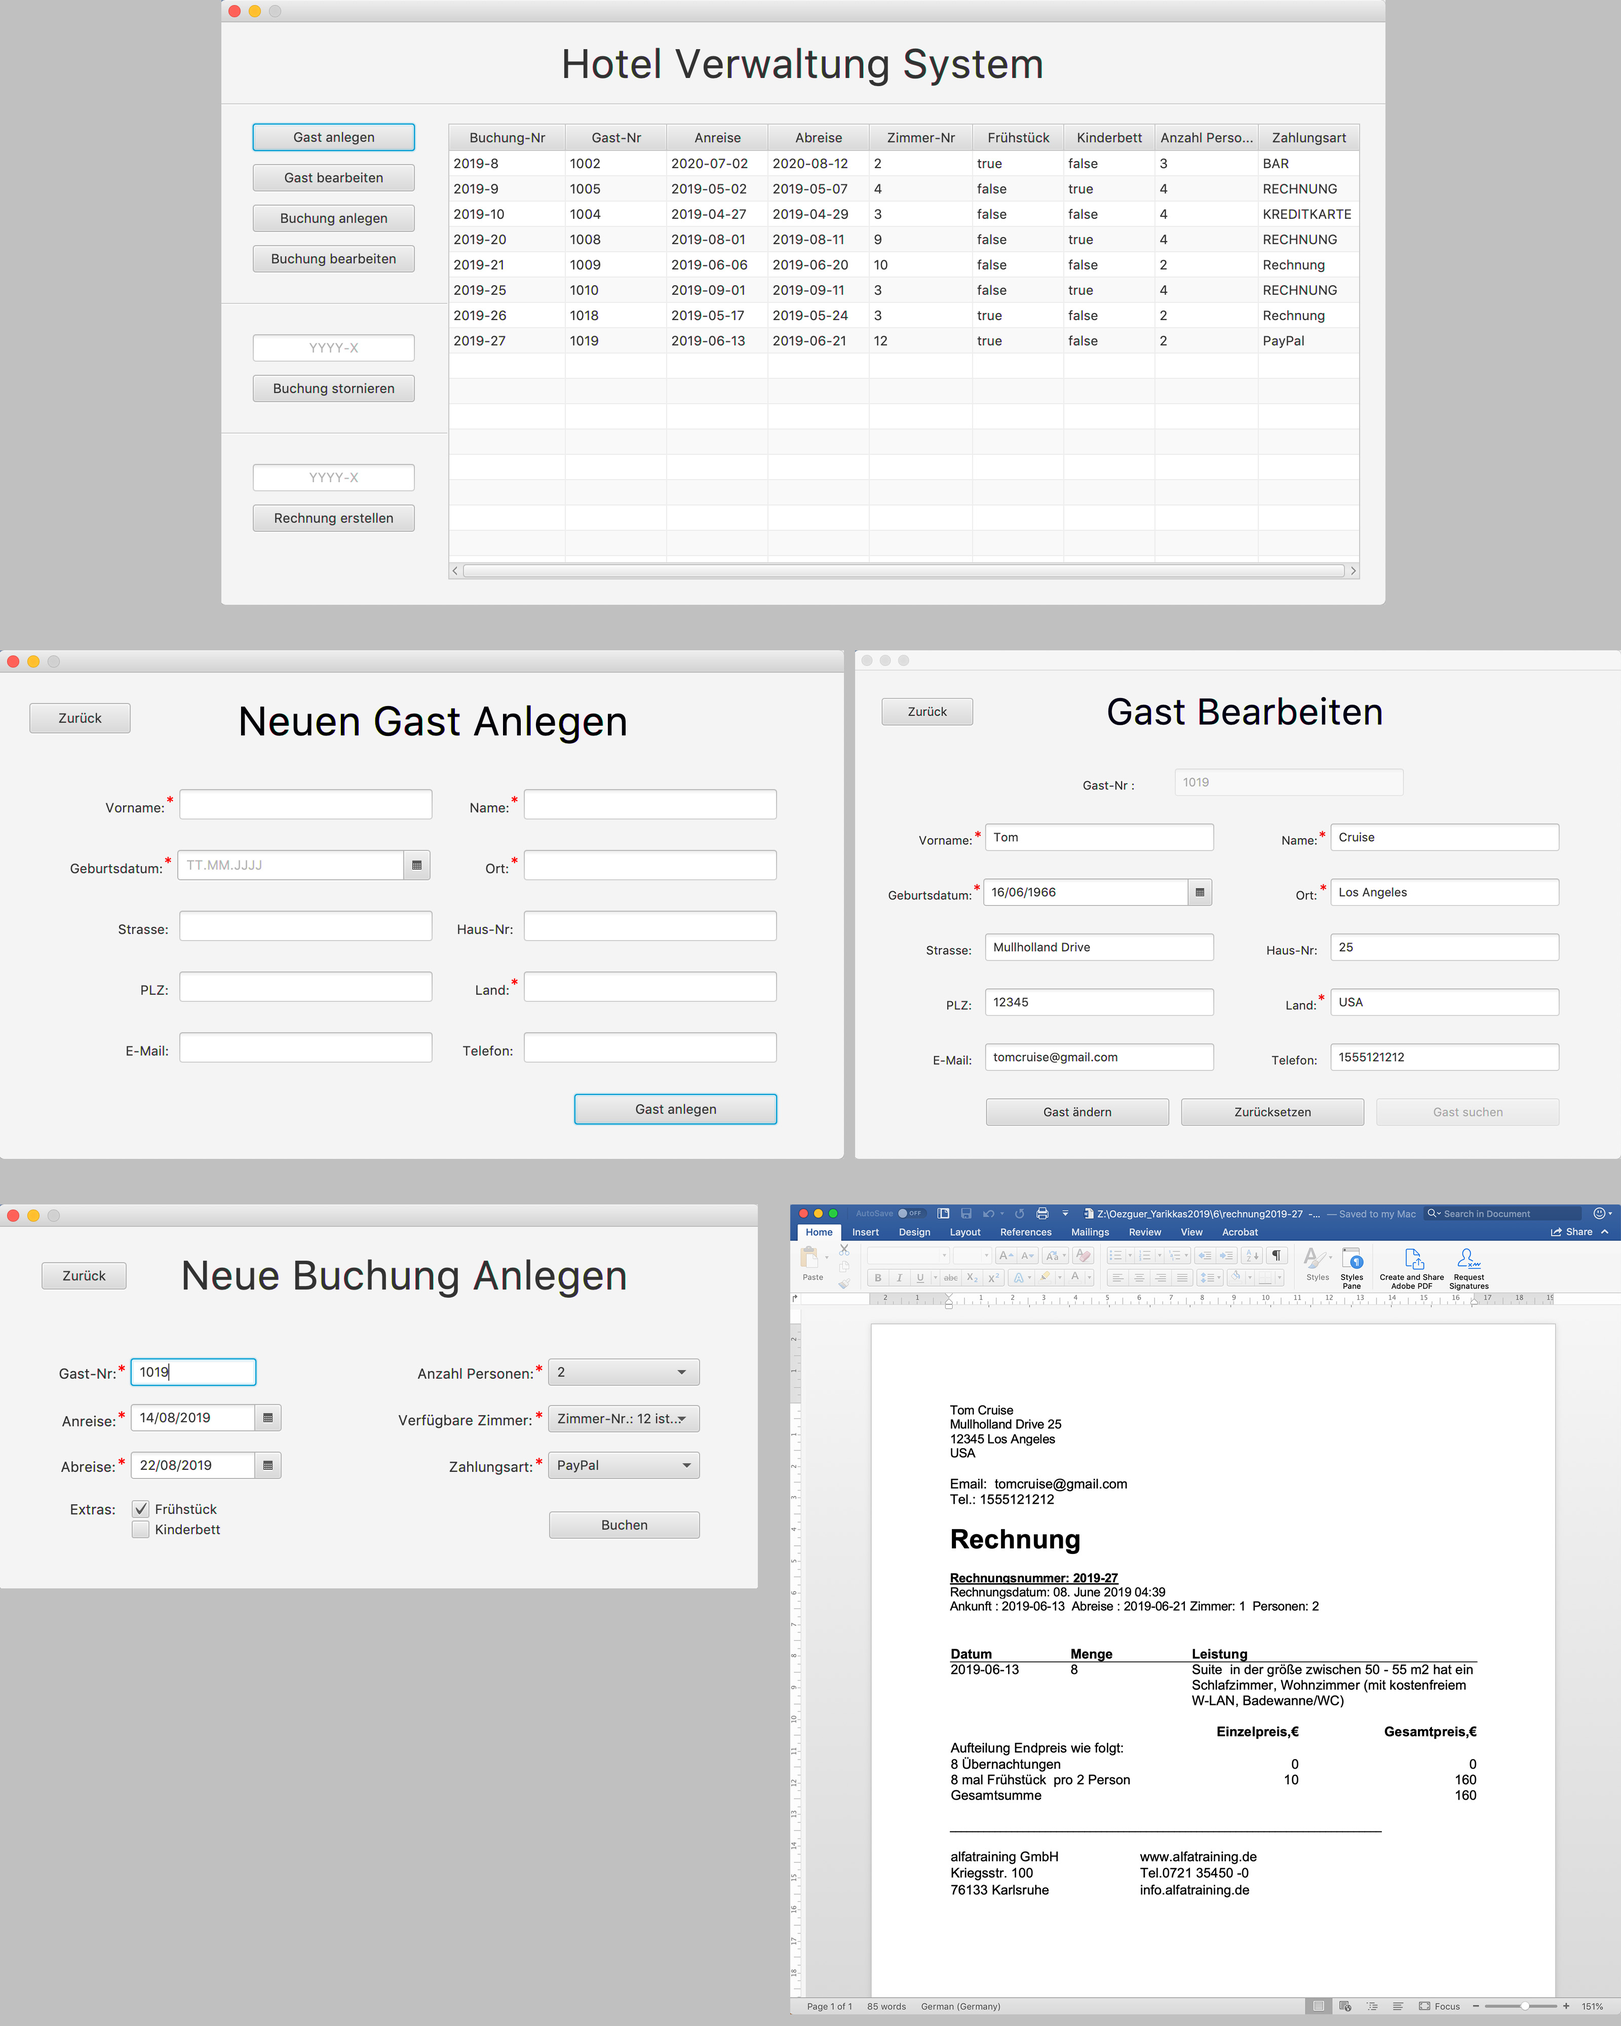
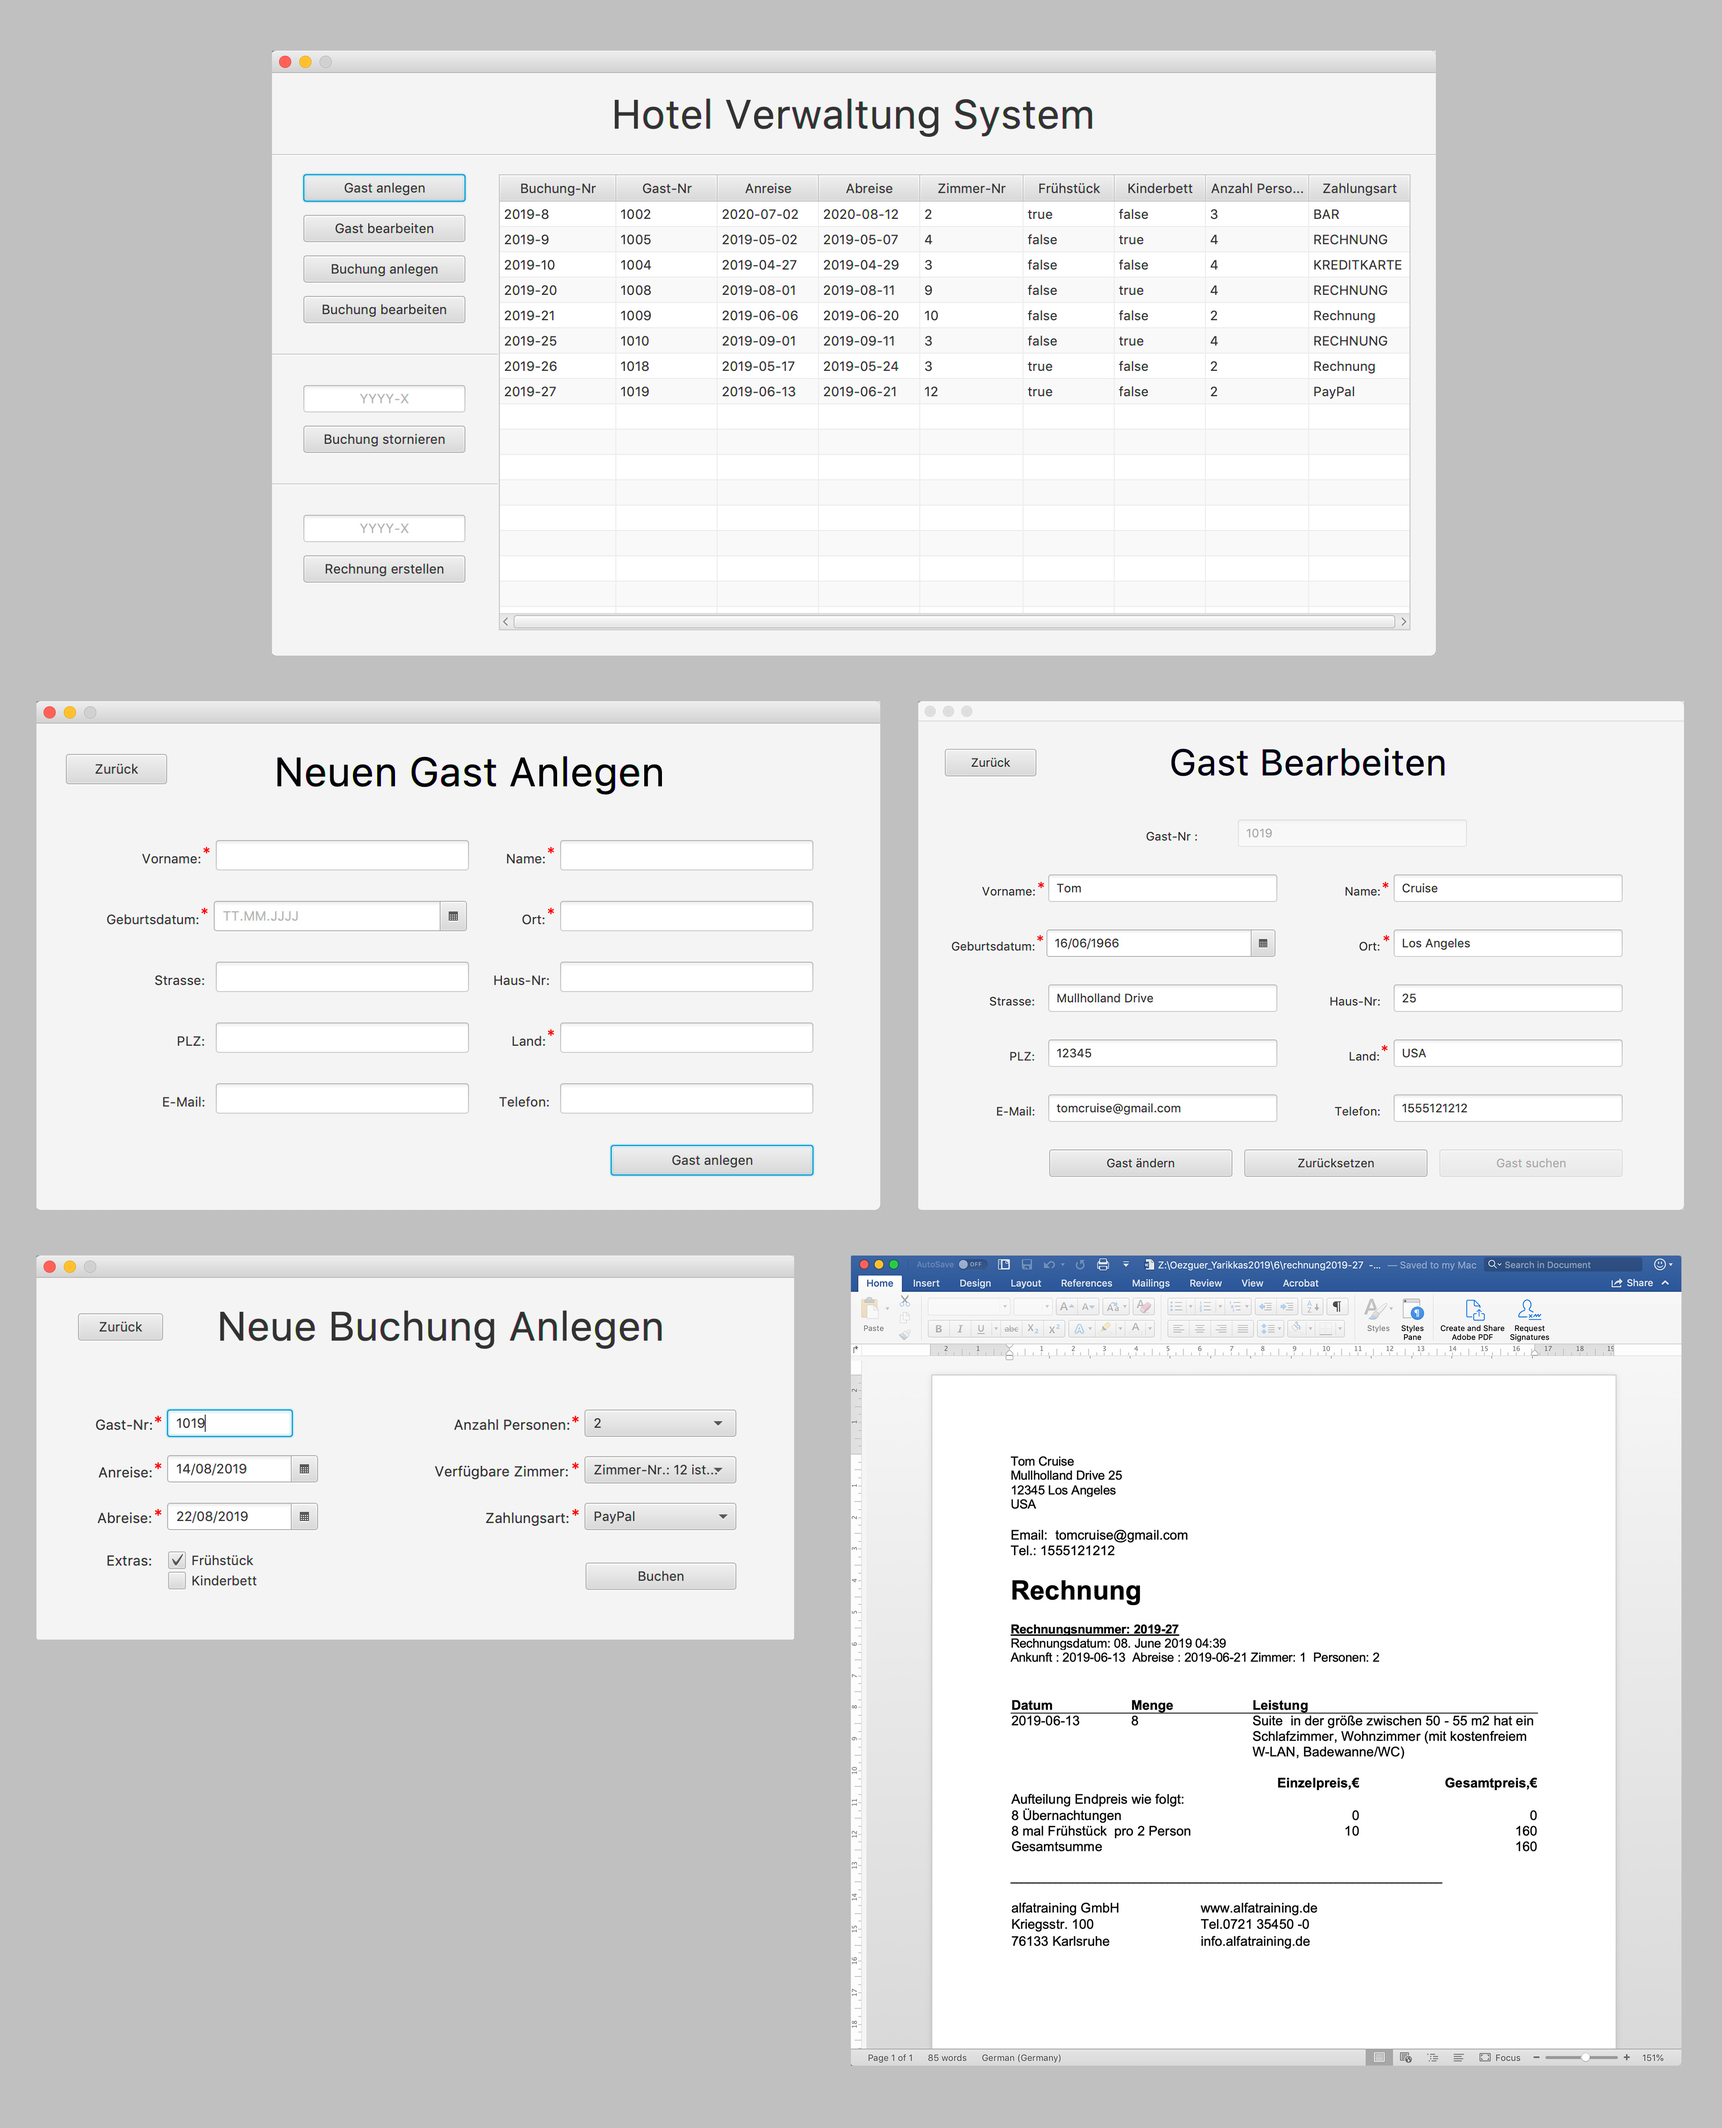
Readme updated

diff --git a/README.md b/README.md
@@ -1,12 +1,10 @@
-<div style="background-color: #c0c0c0;">
-
 ## Description
 
 > A Hotel Management Software written in JAVA as the capstone project of "Object Oriented Programming with Java" bootcamp program.
 
 <div style="text-align:center"><img src ="./Screenshots.jpg" /></div>
 
-</div>
+
 
 
 
